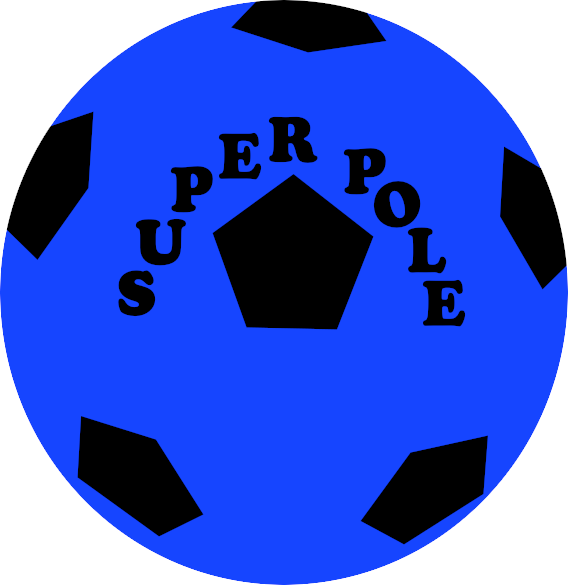
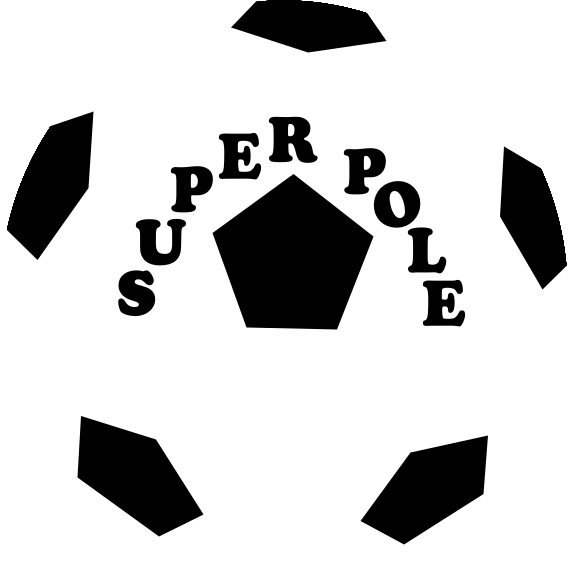
Adding random colors

diff --git a/www/games/soccerball.html b/www/games/soccerball.html
@@ -48,6 +48,7 @@ let gravity = 0;
 let csize = 0;
 let points = 0;
 let maxpoints = 0;
+let colors = ["#ff0000", "#00ff00", "#0000ff", "#ffff00", "#00ffff", "#ff00ff"];
 let img;
 
 // Load the image
@@ -72,6 +73,8 @@ function setup() {
     gravity = 0.7;
     csize = 100;
     points = 0;
+    const random = Math.floor(Math.random() * colors.length);
+    color = colors[random];
 }
 
 function draw() {
@@ -103,8 +106,11 @@ function draw() {
     }
 
     textSize(width/30);
-    text("Points: " + points, width/30, width/20)
-    text("Highscore: " + maxpoints, width/30, width/12)
+    fill(0,0,0);
+    text("Points: " + points, width/30, width/20);
+    text("Highscore: " + maxpoints, width/30, width/12);
+    fill(color);
+    circle(ballx, bally, gsize * csize);
     image(img, ballx - gsize * csize/2, bally - gsize * csize/2, gsize * csize, gsize * csize);
 
 }

diff --git a/games/soccerball.js b/games/soccerball.js
@@ -10,6 +10,7 @@ let gravity = 0;
 let csize = 0;
 let points = 0;
 let maxpoints = 0;
+let colors = ["#ff0000", "#00ff00", "#0000ff", "#ffff00", "#00ffff", "#ff00ff"];
 let img;
 
 // Load the image
@@ -34,6 +35,8 @@ function setup() {
     gravity = 0.7;
     csize = 100;
     points = 0;
+    const random = Math.floor(Math.random() * colors.length);
+    color = colors[random];
 }
 
 function draw() {
@@ -65,8 +68,11 @@ function draw() {
     }
 
     textSize(width/30);
-    text("Points: " + points, width/30, width/20)
-    text("Highscore: " + maxpoints, width/30, width/12)
+    fill(0,0,0);
+    text("Points: " + points, width/30, width/20);
+    text("Highscore: " + maxpoints, width/30, width/12);
+    fill(color);
+    circle(ballx, bally, gsize * csize);
     image(img, ballx - gsize * csize/2, bally - gsize * csize/2, gsize * csize, gsize * csize);
 
 }
